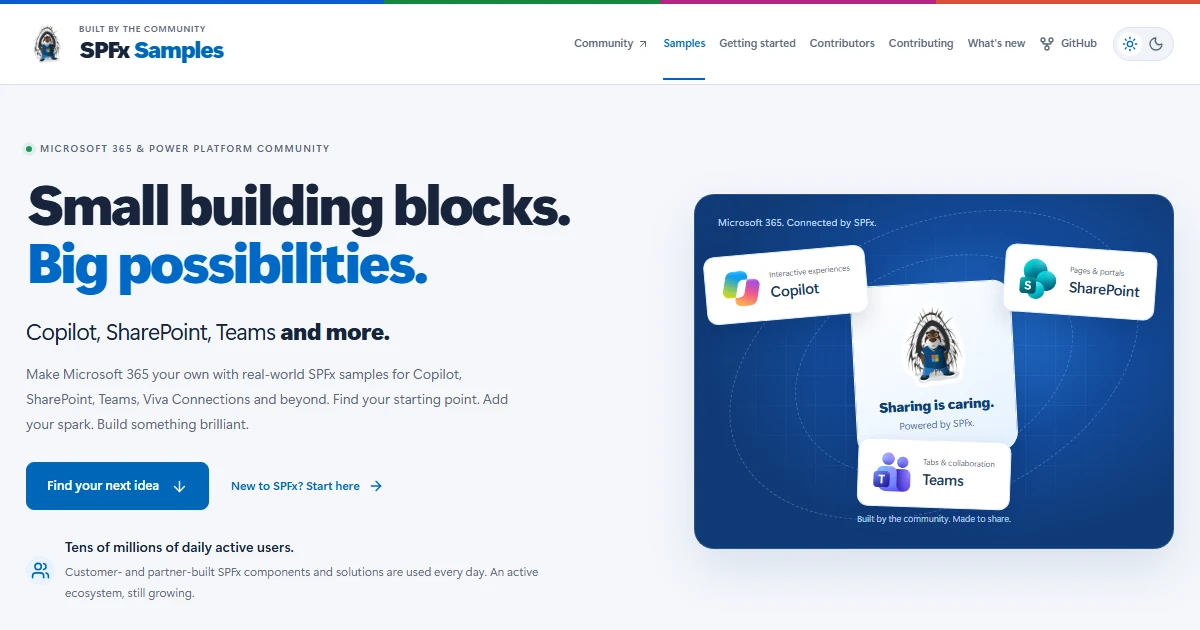
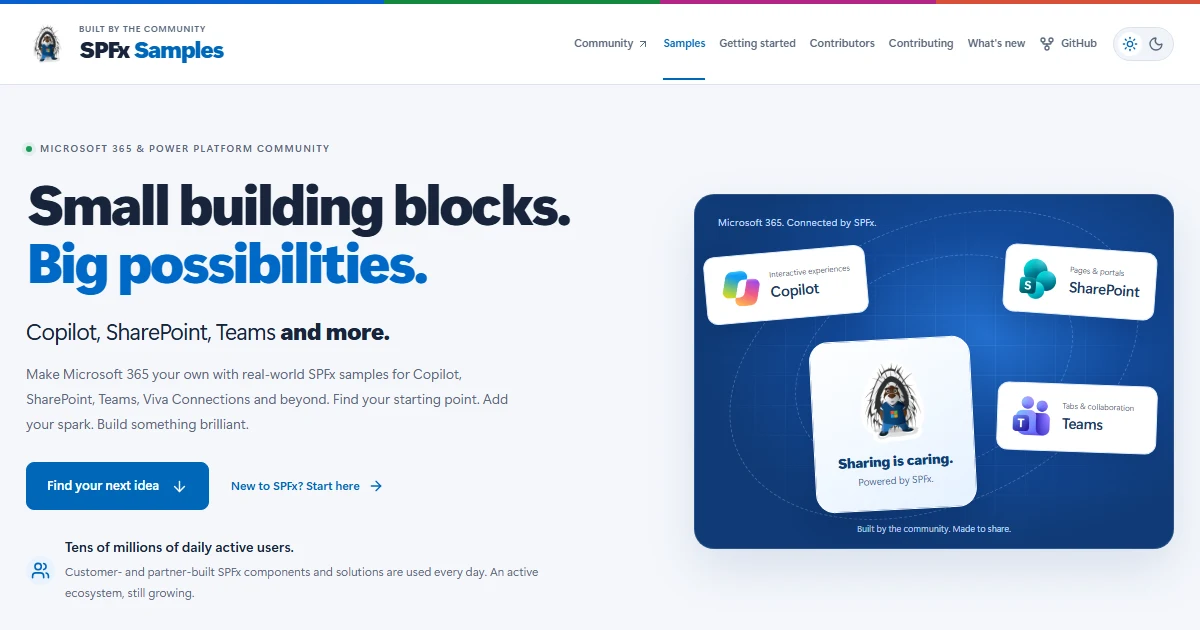
Finish responsive hero layout and gallery closeout
Place Teams beside Parker without overlapping across responsive layouts, verify mobile contributor badges, refresh site previews and track the handoff to individual sample upgrades.

Changed region(s): [[0.6475, 0.4222, 0.9867, 0.8444]]

diff --git a/src/styles/global.css b/src/styles/global.css
@@ -444,6 +444,10 @@ html[data-theme='dark'] .theme-moon {
   flex-shrink: 0;
 }
 .hero-art {
+  --parker-width: 161px;
+  --teams-width: 160px;
+  --hero-card-inset: 16px;
+  --hero-card-gap: 24px;
   height: 355px;
   position: relative;
   background: radial-gradient(
@@ -494,14 +498,21 @@ html[data-theme='dark'] .theme-moon {
 }
 .art-core {
   position: absolute;
-  top: 88px;
-  left: 50%;
+  top: 144px;
+  /* Reserve the full Teams card and a gap, including the tilted box edges. */
+  left: min(
+    50%,
+    calc(
+      100% - var(--teams-width) - var(--hero-card-inset) -
+        var(--hero-card-gap) - var(--parker-width) / 2
+    )
+  );
   transform: translateX(-50%) rotate(-3deg);
   display: flex;
   flex-direction: column;
   align-items: center;
   justify-content: center;
-  width: 161px;
+  width: var(--parker-width);
   height: 171px;
   background: linear-gradient(150deg, #fff, #e5f1ff);
   border: 1px solid #fff;
@@ -552,11 +563,12 @@ html[data-theme='dark'] .theme-moon {
   flex-shrink: 0;
 }
 .tile-teams {
-  left: 50%;
-  right: auto;
-  top: auto;
-  bottom: 40px;
-  transform: translateX(-50%) rotate(2deg);
+  width: var(--teams-width);
+  left: auto;
+  right: var(--hero-card-inset);
+  top: 63%;
+  bottom: auto;
+  transform: translateY(-50%) rotate(2deg);
 }
 .tile-copilot {
   left: 17px;
@@ -570,7 +582,7 @@ html[data-theme='dark'] .theme-moon {
 }
 .art-note {
   position: absolute;
-  bottom: 22px;
+  bottom: 12px;
   left: 0;
   right: 0;
   text-align: center;
@@ -1969,6 +1981,9 @@ html[data-theme='dark'] .theme-moon {
     font-size: 13px;
   }
   .hero-art {
+    --parker-width: 142px;
+    --teams-width: 144px;
+    --hero-card-inset: 12px;
     height: 332px;
   }
   .art-tile {
@@ -1987,9 +2002,8 @@ html[data-theme='dark'] .theme-moon {
     top: 48px;
   }
   .art-core {
-    width: 142px;
     height: 130px;
-    top: 105px;
+    top: 130px;
   }
   .art-core img {
     height: 65px;
@@ -2063,14 +2077,14 @@ html[data-theme='dark'] .theme-moon {
     max-width: 550px;
   }
   .hero-art {
+    --parker-width: 145px;
     height: 320px;
     max-width: 600px;
     width: 100%;
     margin-inline: auto;
   }
   .art-core {
-    top: 105px;
-    width: 145px;
+    top: 130px;
     height: 130px;
   }
   .tile-copilot {
@@ -2360,11 +2374,13 @@ html[data-theme='dark'] .theme-moon {
     margin-top: 22px;
   }
   .hero-art {
+    --parker-width: 126px;
+    --teams-width: calc(50% - 22px);
+    --hero-card-inset: 8px;
     height: 320px;
     border-radius: 13px;
   }
   .art-core {
-    width: 126px;
     height: 127px;
     top: 102px;
   }
@@ -2383,6 +2399,10 @@ html[data-theme='dark'] .theme-moon {
     gap: 7px;
     font-size: 6px;
     width: calc(50% - 22px);
+  }
+  .tile-teams {
+    width: var(--teams-width);
+    top: 52%;
   }
   .art-tile strong {
     font-size: 11px;

diff --git a/tests/browser/gallery.spec.ts b/tests/browser/gallery.spec.ts
@@ -483,3 +483,72 @@ test('contributors recognition is boxed and separated from working search in bot
     ).toBe(true);
   }
 });
+
+test('Teams remains isolated to the right of Parker across viewport sizes', async ({
+  page,
+}) => {
+  await page.goto('./');
+  for (const width of [375, 393, 768, 1024, 1440]) {
+    await page.setViewportSize({ width, height: 1100 });
+    const parker = await page.locator('.art-core').boundingBox();
+    const teams = await page.locator('.tile-teams').boundingBox();
+    const artwork = await page.locator('.hero-art').boundingBox();
+    if (!parker || !teams || !artwork)
+      throw new Error('Hero artwork is not laid out.');
+    expect(
+      teams.x - parker.x - parker.width,
+      `${width}px Teams/Parker separation`,
+    ).toBeGreaterThanOrEqual(12);
+    expect(teams.x + teams.width).toBeLessThanOrEqual(
+      artwork.x + artwork.width,
+    );
+    expect(teams.y).toBeGreaterThanOrEqual(artwork.y);
+    expect(teams.y + teams.height).toBeLessThanOrEqual(
+      artwork.y + artwork.height,
+    );
+    expect(
+      await page.evaluate(
+        () => document.documentElement.scrollWidth <= innerWidth,
+      ),
+    ).toBe(true);
+  }
+});
+
+test('mobile contributor badges stay contained in both motion modes', async ({
+  page,
+}) => {
+  await page.setViewportSize({ width: 375, height: 1100 });
+  for (const reducedMotion of ['no-preference', 'reduce'] as const) {
+    await page.emulateMedia({ reducedMotion });
+    for (const route of ['contributors/', 'contributing/']) {
+      await page.goto(`./${route}`);
+      const badge = page.locator('.recognition-panel img');
+      await expect
+        .poll(() =>
+          badge.evaluate(
+            (image) =>
+              image instanceof HTMLImageElement &&
+              image.complete &&
+              image.naturalHeight === 500,
+          ),
+        )
+        .toBe(true);
+      await expect(badge).toHaveCSS('object-fit', 'contain');
+      const bounds = await badge.boundingBox();
+      const panel = await page.locator('.recognition-panel').boundingBox();
+      if (!bounds || !panel)
+        throw new Error('The mobile badge is not laid out.');
+      expect(bounds.height).toBeLessThanOrEqual(160);
+      expect(Math.abs(bounds.width - bounds.height)).toBeLessThanOrEqual(1);
+      expect(bounds.x).toBeGreaterThanOrEqual(panel.x);
+      expect(bounds.x + bounds.width).toBeLessThanOrEqual(
+        panel.x + panel.width,
+      );
+      expect(
+        await page.evaluate(
+          () => document.documentElement.scrollWidth <= innerWidth,
+        ),
+      ).toBe(true);
+    }
+  }
+});

diff --git a/todo.md b/todo.md
@@ -102,6 +102,23 @@ gap before its heading, and an independently boxed, visibly labeled search area.
 Community layout styles apply in both normal and reduced-motion modes; regression
 checks cover spacing, filtering and accessibility on desktop and mobile.
 
+### Gallery UX closeout (2026-11-07)
+
+**Status: gallery refinement complete for now; individual sample upgrades are next.**
+
+- [x] Place Teams in its own box to Parker's right, with at least a 12px measured gap at 375px, 393px, 768px, 1024px and 1440px.
+- [x] Recheck both contributor pages on mobile in normal and reduced-motion modes: badges render at 144px square, remain contained and retain the 500px intrinsic asset.
+- [x] Refresh the real-site README and social preview images with the final hero layout.
+- [x] Pass all 34 desktop/mobile browser checks and an Astro type check with zero diagnostics.
+- [x] Preserve Connections discovery, the Copilot/SharePoint/Teams hero, community invitations and boxed contributor recognition.
+- [ ] Start individual sample upgrades in the source repositories as the next phase; update the [repair tracker](./sample-tracking.md) as work lands.
+
+The open ACE metadata PR, sample build failures and deferred preview/external-link
+backlog remain pending. This gallery closeout does not mark those source issues
+resolved or change the requirement for all upstream PR checks to pass.
+
+### Ongoing source quality
+
 - [x] Check JSON parsing/root shapes, required text, dates, products, key/value metadata, authors, previews and references.
 - [x] Check names/URLs for duplicates and verify sample links belong to the correct repository and sample directory.
 - [x] Check HTTPS/URL syntax, preview ordering and useful alt text.
